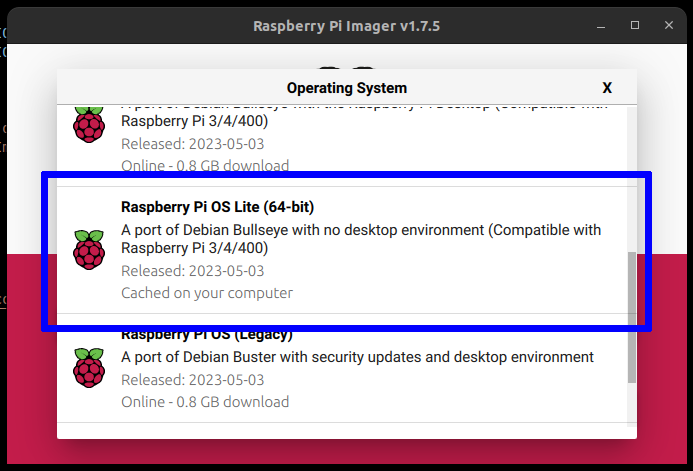
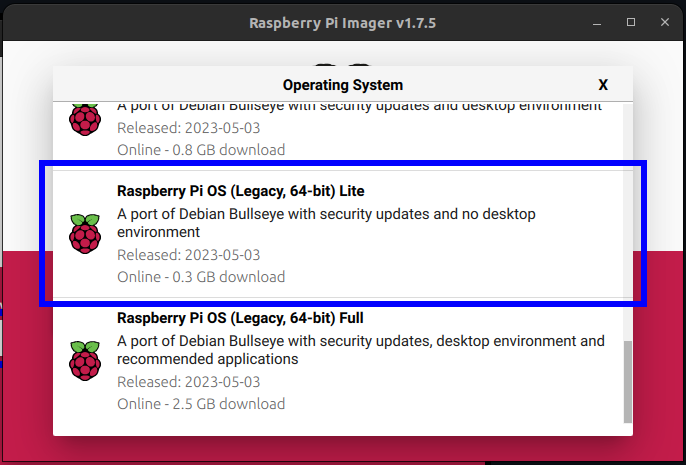
updated images to new naming in imager

Changed region(s): [[0.0, 0.0, 1.0, 1.0]]

diff --git a/tutorial_02_adding_pi_os_to_sd_cards.md b/tutorial_02_adding_pi_os_to_sd_cards.md
@@ -4,7 +4,7 @@ Now we install an operating system for the Pi cluster nodes.
 
 ### Prepare Micro SD Cards
 
-We already inserted the SD-Cards into the Pi cluster. You need to remove them one by one and follow the instructions. After that, we set up our SD-Cards and install the OS for our Raspberry Pis. Download the Raspberry Pi Imager [here](https://www.raspberrypi.com/software/) and plug in your SD-Card. Select **Raspberry Pi OS Lite (64 Bit)** as the operating system of the Pi nodes.
+We already inserted the SD-Cards into the Pi cluster. You need to remove them one by one and follow the instructions. After that, we set up our SD-Cards and install the OS for our Raspberry Pis. Download the Raspberry Pi Imager [here](https://www.raspberrypi.com/software/) and plug in your SD-Card. Select **Raspberry Pi OS (Legacy, 64-bit) Lite** as the operating system of the Pi nodes.
 
 ![img01.png](pictures/img01.png)
 
